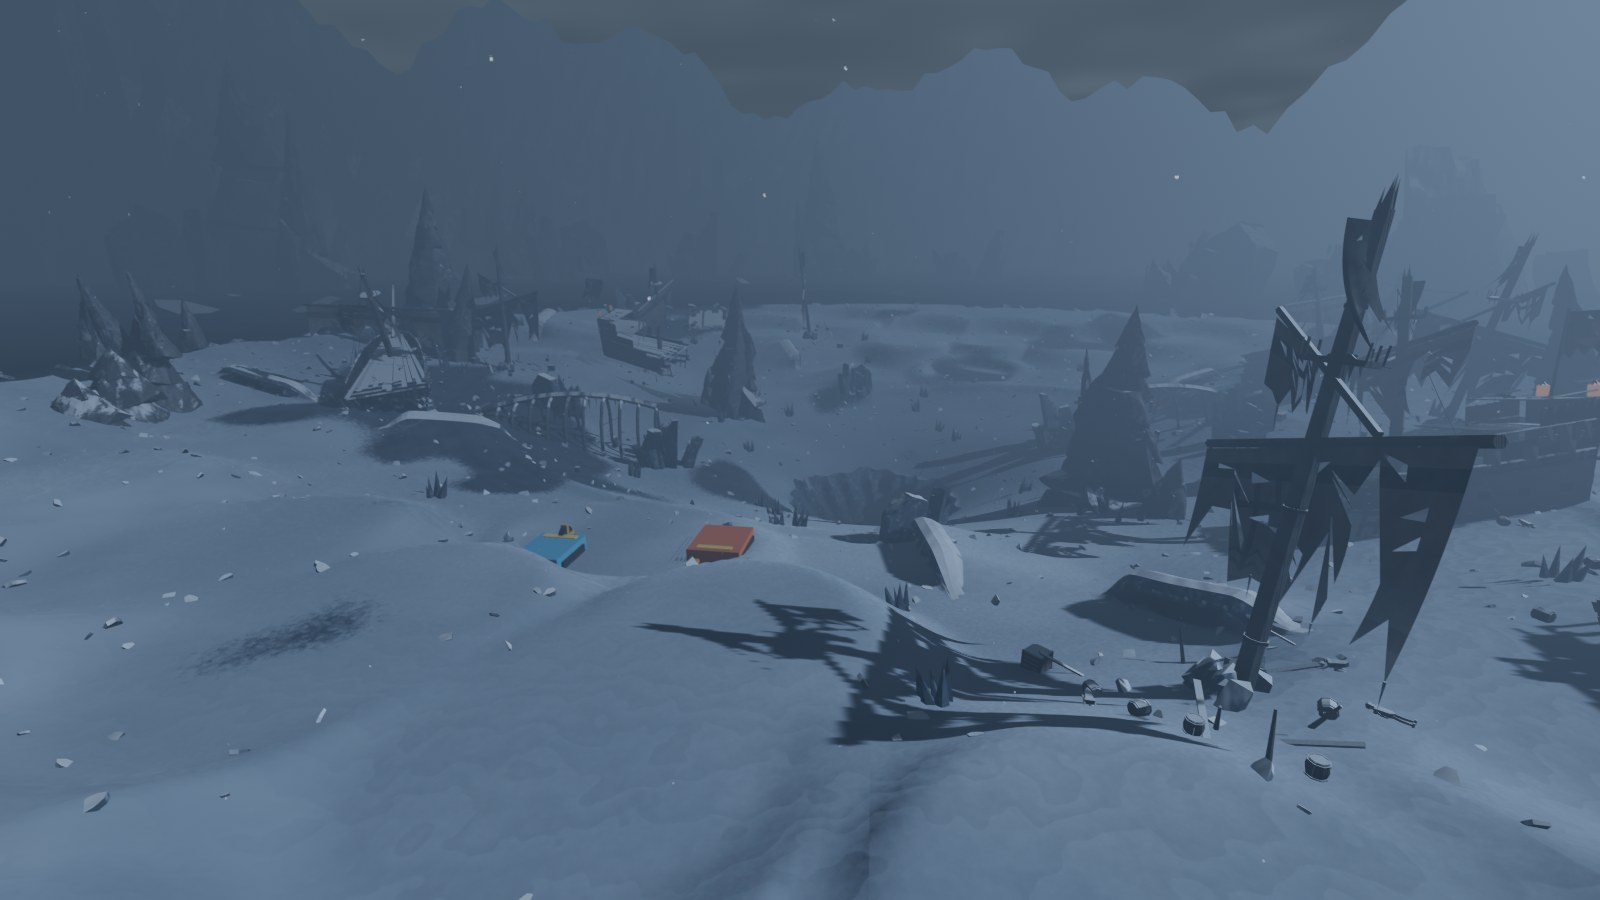
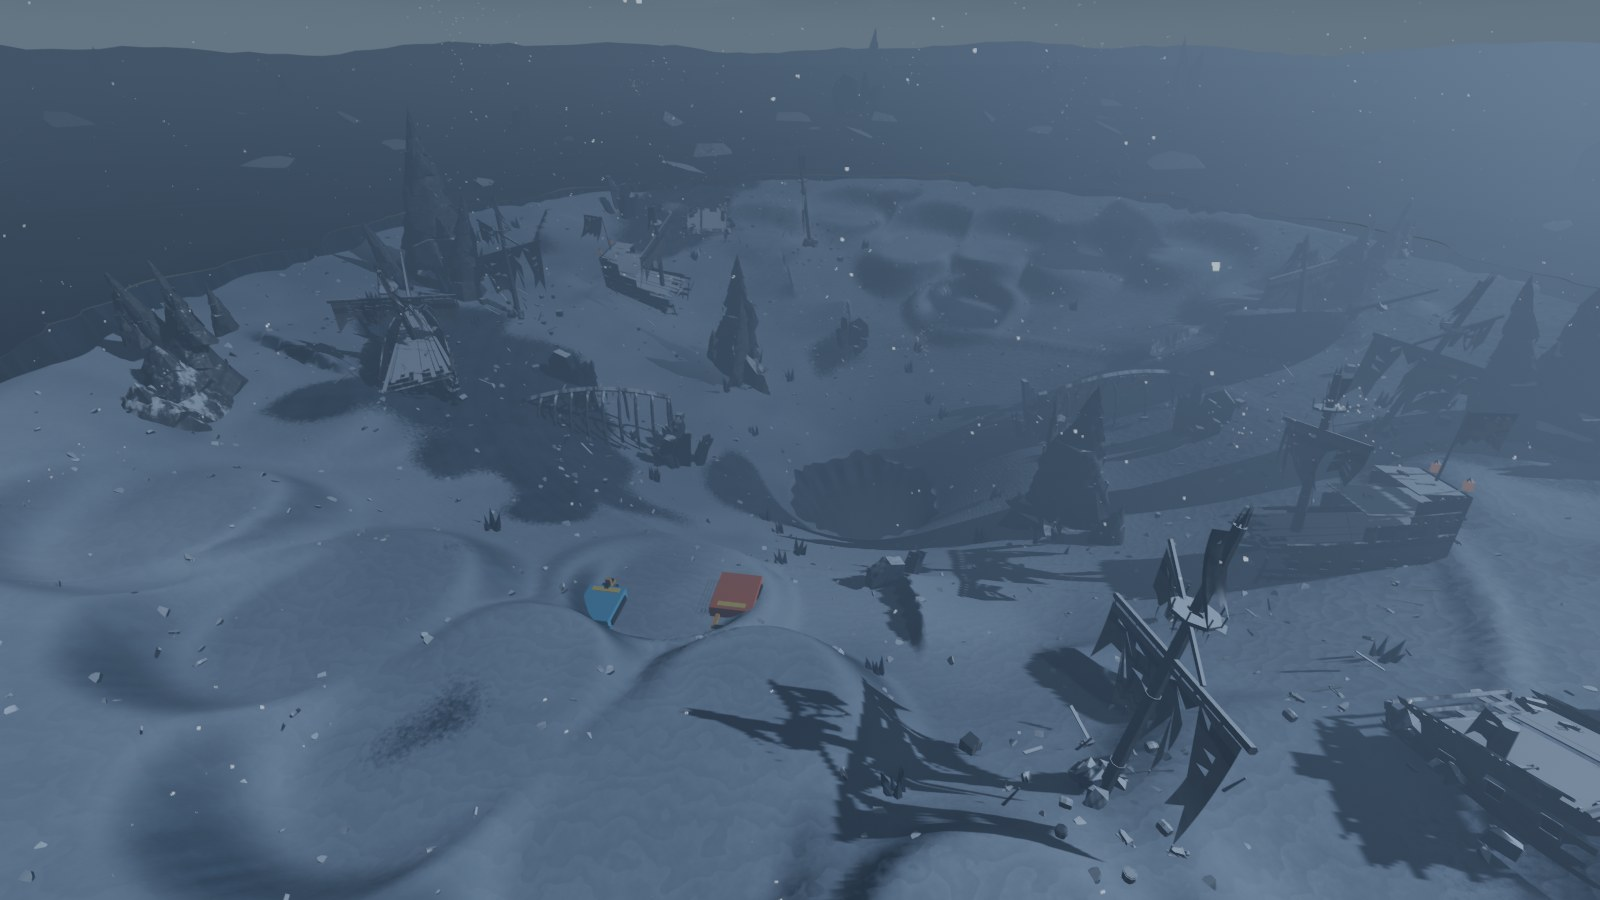
Frozen Maelstrom: deadly chasm, deeper cone, 50 degree slope hold, glinting snow (#102)
- A bottomless chasm rings the rim, then the frozen sea shelf; no open water.
- The cone falls 40 m rim to eye; tracks cancel the downhill pull up to 50 degrees
  on every arena (bot_physics contact.slope_hold_max_degrees).
- Eye throat uses the ice shader; the crystal ice loses its cracked cells.
- Snow crust glints; shattered pieces are lifted clear of the ground.
- Background ice walls lowered and pushed out for a clear horizon.
- BUILD mvp-ab-60, ARENA_RULES 8.

diff --git a/docs/coordination/MAELSTROM.md b/docs/coordination/MAELSTROM.md
@@ -6,10 +6,10 @@ Blender-built models with material slots, a dedicated visuals script).
 
 A whirlpool frozen mid-spin in a frozen sea, where two fleets fought and died.
 The playable ice is a ring about Woodland's area (~49,000 m²) shaped as an
-inverted cone: a straight 24 m fall from the rim to the eye, steepening over the
+inverted cone: a straight 40 m fall from the rim to the eye, steepening over the
 last stretch into the eye's throat, with broad frozen swells, two spiral pressure
-ridges, slab ramps and small level start landings. The rim stands 0.5 m
-over the thin ice of the frozen sea: leaving the ring or falling into the eye
+ridges, slab ramps and small level start landings. A bottomless chasm about
+16 m wide rings the rim, then the frozen sea shelf (scenery): leaving the ring or falling into the eye
 eliminates the bot. Seracs, standing masts, icicle clusters, barrels, crates and each side of the
 keel's ribs never block a bot: they shatter into their real parts as it reaches
 them (or when shot), and the pieces sink away after a few seconds. Frozen waves
@@ -29,13 +29,13 @@ crystals) were rejected as cartoony.
 ## Validation (DeskFraph, RTX 4080, 2026-09-27)
 
 - `tests/presentation/maelstrom_arena_test.gd`: area, eye size vs Atlas MX,
-  point symmetry, mirrored fleets, hull presence, slopes below 20° on the ice
+  point symmetry, mirrored fleets, hull presence, slopes below 50° on the ice (45° near the eye)
   (outside ramp slabs), clear and level starts / duel places / pickups /
   cooling points, open edges, headless stripping, capture views.
 - `tests/simulation/maelstrom_fall_test.gd`: pads hold a parked bot, lip does not
   slide, eye / sea / driving off the rim eliminate, round reset and Practice
   respawn restore, Woodland keeps its reset rule.
-- `tests/network/maelstrom_session_test.gd`: ENet, arena rules 3 rejected, all
+- `tests/network/maelstrom_session_test.gd`: ENet, older arena rules rejected, all
   peers build ice and open edges, starts across the eye, eye elimination
   replicated with its reason.
 - Heavy spawn, arena spawns, Practice Duel, pickups, selection, menu flow,

diff --git a/docs/CONTRACTS.md b/docs/CONTRACTS.md
@@ -1648,3 +1648,15 @@ drive, jump and crouch keys (nitro boosts; the mouse wheel sets flight speed
 instead of zoom); the bot receives neutral braking commands meanwhile and the
 tank sight stands down. F again returns to the same bot. No gameplay or wire
 change. The Maelstrom's frozen-wave crest lips were removed (visual only).
+## Slope hold to 50°, Maelstrom chasm and deeper cone — build mvp-ab-60 (#102)
+
+- `bot_physics.json` `contact.slope_hold_max_degrees` (50, required by
+  `BotPhysics`): `DriveBody._hold_slope` cancels the whole downhill pull on any
+  slope up to that steepness, whatever the drive's grip; steeper slopes hold
+  only up to the grip limit as before. Applies to every arena.
+- Maelstrom (`ARENA_RULES` 8): the cone falls 40 m rim to eye
+  (`bowl.tilt`); outside the rim `height_at` returns `eye_depth`, a bottomless
+  chasm (`art.chasm_width` wide, presentation only) before the frozen sea
+  shelf. No open water remains; the eye throat uses the ice shader.
+- Presentation: shattered prop pieces are lifted clear of the ground on spawn;
+  the snow crust glints.
